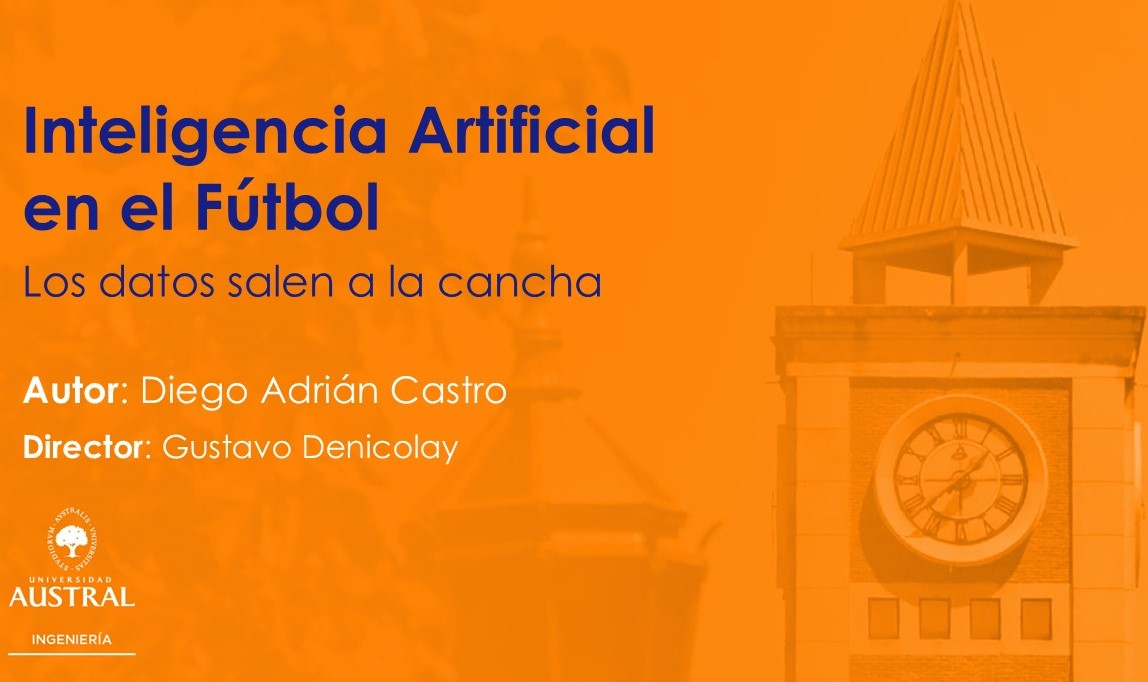
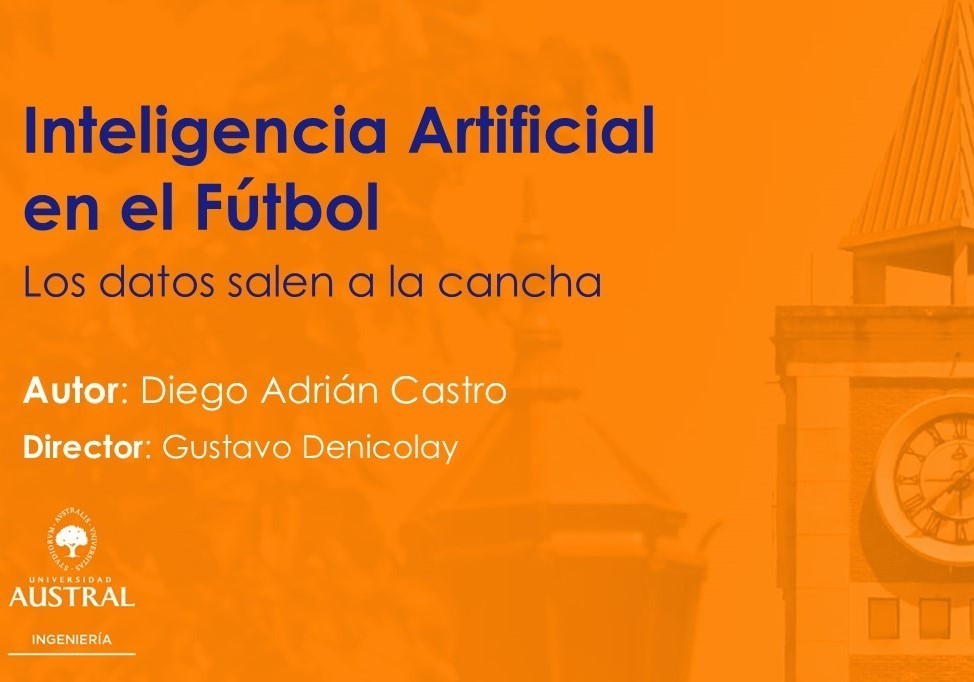
Se actualizan presentaciones y cv

diff --git a/dc_cv.html b/dc_cv.html
@@ -67,16 +67,10 @@
 						<!-- One -->
 							<section id="one">
 								<div class="inner">
-									<p>Soy un apasionado del mundo de los <b>Datos</b>📶 y de la <b>Inteligencia Artificial</b>✨, buscando siempre aplicaciones por fuera de lo convencional.
-									<br><br>
-									Desde mis comienzos, tuve un especial interés por la <b>ciencia aplicada</b> y, a lo largo de mi trayectoria profesional, busqué siempre proyectos que tuvieran un fuerte enfoque práctico.
-									<br><br>
-									▹ Visión integral del ecosistema de datos, acostumbrado a convivir con <b>grandes volúmenes de información</b>.<br>
-									▹ Experiencia <b>formando y liderando</b> equipos técnicos. <br>
-									▹ Construir con <b>calidad</b> y comunicar con <b>simpleza</b>, pilares que promuevo para impulsar las decisiones estratégicas.
-									
+									<p> Actualmente lidero la estrategia de datos para la <b>Tarjeta SUBE</b>, uno de los sistemas transaccionales más grandes de la región (75M de operaciones diarias). Combino experiencia en dirección de equipos con un profundo conocimiento técnico en Analítica e Inteligencia Artificial para convertir datos complejos en decisiones de negocio medibles. 
+
+									Complemento mi visión de la industria con la docencia, formando profesionales en IA y conectando la práctica del sector con la vanguardia académica. En paralelo, investigo y desarrollo activamente la <b>aplicación de IA en el mundo del deporte</b>.
 									</p>		
-									
 								</div>
 							</section>
 
@@ -101,9 +95,10 @@
 											<header class="major">
 												<h3>Laboral</h3>
 											</header>
-											<p>Durante mis inicios, comencé como <b>desarrollador</b> en empresas como Tecnet (para cliente Edenor), Sabre Holdings y Capgemini.<br><br>
-											Desde el año 2012 trabajo en <b style="color:#4844db">Nación Servicios</b>, asignado a proyectos de Transporte y Banca para la <b style="color:#00a4bd">Tarjeta SUBE</b> y productos del <b>Banco Nación</b>.<br><br>
-											Desde 2022 soy el responsable del área de <b>Data & Analytics</b>, liderando un equipo de <b>30 personas</b>, trabajando con enormes volúmenes de datos (<b>75 millones de transacciones diarias</b>), impulsando la cultura basada en datos y la aplicación de <b>Inteligencia Artificial</b> en varias áreas de la compañía.
+											<p>
+											Desde 2022, me desempeño como <b>Gerente Data, Analytics & AI</b> en <b style="color:#4844db">Nación Servicios</b> donde lidero la estrategia integral de datos y analítica, posicionando el área como pilar estratégico del negocio. Cuento con un equipo multidisciplinario de 30 profesionales distribuido en 6 áreas: Ingeniería de Datos, BI, Arquitectura, Ciencia de Datos, Gobierno y Calidad.
+
+											<p>Anteriormente desempeñé roles de liderazgo en diversas áreas de Datos y Desarrollo dentro de la misma empresa y, durante mis inicios, comencé como <b>desarrollador</b> en empresas como Tecnet (para cliente Edenor), Sabre Holdings y Capgemini.<br><br>
 											</p>
 											</div>
 									</div>
@@ -116,7 +111,7 @@
 											<header class="major">
 												<h3>Docencia</h3>
 											</header>
-											<p>En la actualidad, soy profesor del <b>Departamento de Inteligencia Artificial</b> de la <b>Facultad de Ingeniería-Universidad Austral</b>, coordinador académico del posgrado <b>Diplomatura en Inteligencia Artificial</b> y también profesor invitado en el <b>Centro de Estudios del Deporte-Universidad Austral</b> y <b>IAE Business School</b>.</p>
+											<p>En la actualidad, soy coordinador académico de posgrados del <b>Departamento de Inteligencia Artificial</b> de la <b>Facultad de Ingeniería-Universidad Austral</b> y también profesor invitado en el <b>Centro de Estudios del Deporte-Universidad Austral</b> y <b>IAE Business School</b>.</p>
 											
 											<p>Durante <b>10 años</b> ejercí diferentes cargos docentes en temas relacionados a Datos en <b>universidades y centros de capacitación</b>.</p>
 											<ul>
@@ -124,6 +119,8 @@
 												<li><i>2015-2018</i>: Profesor en <b>Educación IT</b> (Oracle Tuning y PL/SQL)</li>
 												<li><i>2007-2014</i>: Jefe de Trabajos Prácticos-Ayudante 1°-Ayudante 2° en <b>Fac. de Cs. Exactas y Naturales-UBA</b>.</li>
 											</ul>
+											
+											Adicionalmente, formo parte del grupo de académicos de Latinoamérica <b style="color:#d977d9">Executive AI Forum</b> <a href="https://aileadershipnetwork.ai/">Link</a>
 										</div>
 									</div>
 								</section>
@@ -150,9 +147,9 @@
 												<h3>Conocimientos</h3>
 											</header>
 											<ul>
-												<li>Python | R</li>
-												<li>Machine Learning (scikit-learn | NLP | LightGBM) </li>
-												<li>GenAI (Gemini | Ollama) </li>
+												<li>Python</li>
+												<li>Machine Learning</li>
+												<li>IA Generativa </li>
 												<li>Power BI</li>
 												<li>SQL Avanzado</li>
 												<li>GCP (Big Query | Vertex AI) </li>

diff --git a/dc_futbol.html b/dc_futbol.html
@@ -67,7 +67,7 @@
 						<!-- One -->
 							<section id="one">
 								<div class="inner">
-									<p>Desde el año 2023 comencé a estudiar la aplicación de <b>Inteligencia Artificial en el Fútbol</b> y me enfoco en brindar servicios para poder aplicar estas técnicas a casos de la vida real.
+									<p>Desde el año 2023 comencé a estudiar la aplicación de <b>Inteligencia Artificial en el Fútbol</b>, investigo activamente sobre este tema en el <b>Departamento de IA</b> de la Universidad Austral y brindo servicios de consultoría.
 								</div>
 							</section>
 						
@@ -80,7 +80,7 @@
 											<header class="major">
 												<h3>Tesis de Maestría</h3>
 											</header>
-											<p>Mi trabajo final dirigido por <b>Mg. Gustavo Denicolay</b> se basó en 4 grandes objetivos:</p>
+											<p>Mi trabajo final dirigido por <b>Mag. Gustavo Denicolay</b> se basó en 4 grandes objetivos:</p>
 											<ul>
 												<li>Estudio del Estado del Arte</li>
 												<li>Desarrollo de un modelo para detección de jugadas ofensivas peligrosas (<b>Peligro de Gol</b>, de la familia de modelos de Possession Value)</li>
@@ -88,7 +88,8 @@
 												<li>Propuesta sobre cómo se podría armar una Oficina de Datos en un club argentino</li>
 											</ul>
 											
-											<p><a href="documents/2024_dcastro_IA_en_futbol_tesis_maestria_Austral.pdf" download> <i class="fas fa-download"></i> Descargar Tesis de Maestría</a>
+											<p>De tener en interés en contar con la tesis, contactarme vía <a href="https://forms.gle/1Rd1qELqukR2jP5U6" class="fas fa-envelope fa-1x"><span class="label"></span></a>
+
 											</p>
 										</div>
 									</div>
@@ -102,8 +103,9 @@
 												<h3>Rendimiento Deportivo</h3>
 											</header>
 											<ul>
-												<li>Experiencia utilizando datos de rendimiento de <b>Catapult</b> y <b style="color:orange">Vald</b></li>
+												<li>Junto a las empresas <b>Catapult</b> y <b style="color:orange">Vald</b>, dicté el curso <b>Power BI para el Alto Rendimiento Deportivo</b>.</li>
 											</ul>
+											<p>Para conocer el material, contactarme vía <a href="https://forms.gle/1Rd1qELqukR2jP5U6" class="fas fa-envelope fa-1x"><span class="label"></span></a>
 										</div>
 									</div>
 								</section>
@@ -116,10 +118,13 @@
 												<h3>Conocimientos</h3>
 											</header>
 											<ul>
-												<li>Video análisis con software <b style="color:lime">Metrica Play</b> en torneos amateur (<a href="videos/videoanalisis_metrica_ejemplo.mp4">ver ejemplo</a>)</li>
 												<li>Eventos con pelota y 360 del proveedor <b style="color:orange">Hudl Statsbomb</b></li>
 												<li>Experiencia con librerías Python <b>statsbombpy | mplsoccer | socceraction</b></li>
 												<li>Modelos de <b>Possession Value</b></li>
+												<li>Generación de Informes Ejecutivos</li>
+												<li>IA Generativa</li>
+												<li>Análisis Cuantitativo</li>
+												<li>Video análisis con software <b style="color:lime">Metrica Play</b> en torneos amateur</li>
 											</ul>
 										</div>
 									</div>
@@ -133,7 +138,8 @@
 												<h3>Divulgación y Capacitaciones</h3>
 											</header>
 											<ul>
-												Participación en eventos de divulgación y capacitaciones sobre <b>Análisis de Datos Aplicados al Fútbol.</b>
+												<li>Participación en múltiples eventos de divulgación y capacitaciones sobre <b>Análisis de Datos Aplicados al Fútbol.</b></li>
+												<li>Profesor Visitante en <b>Centro de Estudios del Deporte - Universidad Austral</b> para el <b>Programa en Análisis de Datos Aplicados al Fútbol</b> (director Pablo Sarinelli).</li>
 											</ul>
 										</div>
 									</div>
@@ -147,9 +153,12 @@
 												<h3>Artículos</h3>
 											</header>
 											<ul>
+												<li><b>LinkedIn</b>: <a href="https://www.linkedin.com/pulse/wimbledon-sinner-brill%C3%B3-en-la-cancha-pero-ia-tambi%C3%A9n-jug%C3%B3-castro-xzmtf/">Wimbledon: Sinner brilló en la cancha, pero la IA también jugó su partido</a> (16/07/2025)</li>
 												<li><b>Newsletter del Centro de Estudios del Deporte - Univ. Austral (CEDNews)</b>: <a href="https://www.linkedin.com/pulse/por-qu%C3%A9-usar-datos-en-el-f%C3%BAtbol-centro-de-estudios-del-deporte-cgaff?utm_source=share&utm_medium=member_android&utm_campaign=share_via">¿Por qué usar datos en el fútbol?</a>
 												(09/06/2025)</li>
 												<li><b>LinkedIn</b>: <a href="https://www.linkedin.com/pulse/mundial-qatar-2022-revivilo-trav%C3%A9s-de-la-inteligencia-castro-t2m4f/?trackingId=0szKeIO7%2Bc7ihlcYNBt9EQ%3D%3D">Mundial Qatar 2022: Revivilo a través de la Inteligencia Artificial</a> (16/12/2024)</li>
+											
+												
 											</ul>
 										</div>
 									</div>

diff --git a/dc_presentaciones_2026_execAIForum.html b/dc_presentaciones_2026_execAIForum.html
@@ -1,0 +1,89 @@
+<!DOCTYPE HTML>
+<!--
+	Forty by HTML5 UP
+	html5up.net | @ajlkn
+	Free for personal and commercial use under the CCA 3.0 license (html5up.net/license)
+-->
+<html>
+	<head>
+		<title>Diego Adrián Castro</title>
+		<meta charset="utf-8" />
+		<meta name="viewport" content="width=device-width, initial-scale=1, user-scalable=no" />
+		<link rel="stylesheet" href="assets/css/main.css" />
+		<link rel="shortcut icon" href="favicon.png" type="image/x-icon">
+		<link rel="icon" href="favicon.png" type="image/x-icon">
+		<noscript><link rel="stylesheet" href="assets/css/noscript.css" /></noscript>
+	</head>
+		
+	<!-- Google tag (gtag.js) -->
+	<script async src="https://www.googletagmanager.com/gtag/js?id=G-8LBFRL8MDJ"></script>
+	<script>
+	  window.dataLayer = window.dataLayer || [];
+	  function gtag(){dataLayer.push(arguments);}
+	  gtag('js', new Date());
+
+	  gtag('config', 'G-8LBFRL8MDJ');
+	</script>
+
+	<body class="is-preload">
+
+		<!-- Wrapper -->
+			<div id="wrapper">
+
+				<!-- Header -->
+					<header id="header">
+						<nav>
+							<a href="#menu">Menu</a>
+						</nav>
+					</header>
+
+				<!-- Menu -->
+					<nav id="menu">
+						<ul class="links">
+							<li><a href="index.html">Home</a></li>
+						</ul>
+					</nav>
+
+				<!-- Main -->
+					<div id="main" class="alt">
+
+						<!-- One -->
+							<section id="one">
+								<div class="inner">
+									<header class="major">
+										<h1>Actividad Executive AI Forum</h1>
+									</header>
+									
+									<p><i>Abril 2026</i> - Como parte del <b>Executive AI Forum</b> (grupo de académicos de IA de Argentina, Chile y Colombia), dicté la charla <b>Deportes y Mundial 2026: La Inteligencia Artificial también juega su partido</b>. La conversación se centró en mostrar cómo la inteligencia artificial, una disciplina de probados resultados en diversos campos e industrias, está revolucionando el mundo del deporte. Se analizaron ejemplos de su aplicación en la Fórmula 1, el básquet y el tenis, para luego profundizar en la transformación del fútbol, anticipando avances tecnológicos que llegarán de la mano del Mundial 2026.</p>
+									
+									<span class="image fit"></span>
+												<div class="box alt">
+													<div class="row gtr-50 gtr-uniform">
+														<div class="col-6"><span class="image fit"><img src="images/present_2026_execAIForum_ppt.jpg" alt="" /></span></div>
+														
+
+												
+												</div>
+									</span>
+									
+							</section>
+
+					</div>
+
+				
+
+				
+
+			</div>
+
+		<!-- Scripts -->
+			<script src="assets/js/jquery.min.js"></script>
+			<script src="assets/js/jquery.scrolly.min.js"></script>
+			<script src="assets/js/jquery.scrollex.min.js"></script>
+			<script src="assets/js/browser.min.js"></script>
+			<script src="assets/js/breakpoints.min.js"></script>
+			<script src="assets/js/util.js"></script>
+			<script src="assets/js/main.js"></script>
+
+	</body>
+</html>

diff --git a/index.html b/index.html
@@ -81,6 +81,7 @@
 									<li><a href="http://www.linkedin.com/in/diegocastro" class="icon brands alt fa-linkedin-in"><span class="label">LinkedIn</span></a></li>
 									<!--<li><a href="https://github.com/castrodiego/" class="icon brands alt fa-github"><span class="label">GitHub</span></a></li>-->
 									<li><a href="https://www.youtube.com/@diegoadriancastro" class="icon brands alt fa-youtube"><span class="label">Youtube</span></a></li>
+									<li><a href="https://aileadershipnetwork.ai/"  class="icon solid alt fa-project-diagram"><span class="label">Executive AI Forum</span></a></li>
 								</ul>
 							</div>
 						</div>	
@@ -137,10 +138,9 @@
 					<section id="three">
 					<div class="inner">
 						<header class="major">
-							<h2>Contacto</h2>
+							<h3>Contacto</h3>
 						</header>
-						<iframe data-tally-src="https://tally.so/embed/w79zd2?alignLeft=1&hideTitle=1&transparentBackground=1&dynamicHeight=1" loading="lazy" width="80%" height="276" frameborder="0" marginheight="0" marginwidth="0" title="Contacto
-"></iframe><script>var d=document,w="https://tally.so/widgets/embed.js",v=function(){"undefined"!=typeof Tally?Tally.loadEmbeds():d.querySelectorAll("iframe[data-tally-src]:not([src])").forEach((function(e){e.src=e.dataset.tallySrc}))};if("undefined"!=typeof Tally)v();else if(d.querySelector('script[src="'+w+'"]')==null){var s=d.createElement("script");s.src=w,s.onload=v,s.onerror=v,d.body.appendChild(s);}</script>
+						<a href="https://forms.gle/1Rd1qELqukR2jP5U6" class="fas fa-envelope fa-2x"><span class="label"></span></a>
 					</div>
 					</section>
 					

diff --git a/dc_trabajos_relacionados.html b/dc_trabajos_relacionados.html
@@ -77,7 +77,9 @@
 											<p>Actualmente cuento con interés en dirigir tesis de maestría relacionadas a la <b>Aplicación de IA en el Deporte</b>.</p>
 											<p>Evaluaciones de Tesis:
 											<ul>
-												<li><b>Octubre 2025</b>: "̈Modelado predictivo e identificación de determinantes de la tasa de clic y conversión de la sugerencia en la plataforma B2B online de Coca-Cola Andina", alumna Milagros Rodriguez Saá, Maestría en Ciencia de Datos - Universidad Austral (jurados Dr. Alejandro Hossian, Mg. Pablo Albani y Mg. Diego Adrián Castro) </li>
+												<li><b>Octubre 2025</b>: "̈Modelado predictivo e identificación de determinantes de la tasa de clic y conversión de la sugerencia en la plataforma B2B online de Coca-Cola Andina", alumna Milagros Rodriguez Saá, Maestría en Ciencia de Datos - Universidad Austral (jurados Dr. Alejandro Hossian, Mag. Pablo Albani y Mag. Diego Adrián Castro) </li>
+												
+												<li><b>Diciembre 2025</b>: "̈Predicción del churn en el ámbito de las telecomunicaciones", alumno Diego Feresin, Maestría en Ingeniería en Sistemas de Información - UTN (jurados Mag. Cinthia Vegega, Dr. María Florencia Pollo Cattaneo y Mag. Diego Adrián Castro) </li>
 											</ul>
 											</p>
 										</div>

diff --git a/dc_presentaciones_gral.html b/dc_presentaciones_gral.html
@@ -78,6 +78,22 @@
 						<!-- Two -->
 							<section id="two" class="spotlights">
 							<section>
+									<a href="dc_presentaciones_2026_execAIForum.html" class="image">
+										<img src="images/present_2026_execAIForum.png" alt="" data-position="center center" />
+									</a>
+									<div class="content">
+										<div class="inner">
+											<header class="major">
+												<h3>Actividad Executive AI Forum</h3>
+											</header>
+											<p>Charla <b>Deportes y Mundial 2026: La Inteligencia Artificial también juega su partido</b> para el <b>Executive AI Forum</b> (grupo de académicos de IA de Argentina, Chile y Colombia) - Abril 2026</p>
+											<ul class="actions">
+												<li><a href="dc_presentaciones_2026_execAIForum.html" class="button">Ver más</a></li>
+											</ul>
+										</div>
+									</div>
+								</section>
+							<section>
 									<a href="dc_presentaciones_2025_notaBalassone.html" class="image">
 										<img src="images/present_2025_nota_balassone.png" alt="" data-position="center center" />
 									</a>
